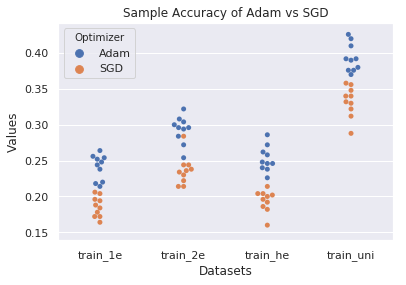
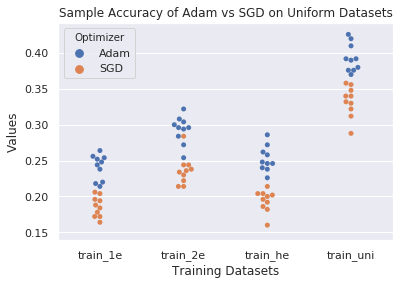
Update docs after building Travis build 128 of apra93/leabra-tf
The docs were built from the branch 'master' against the commit
c00edf69cb681d25198e80fde06bfecf8ab34e9f.

The Travis build that generated this commit is at
https://travis-ci.org/apra93/leabra-tf/jobs/538859755.

The doctr command that was run is

    /home/travis/miniconda/envs/test-environment/bin/doctr deploy . --built-docs docs/_build/html --deploy-branch-name gh-pages

Changed region(s): [[0.1478, 0.0281, 0.9754, 0.0842], [0.4138, 0.9263, 0.6798, 0.9825]]

diff --git a/notebooks/0.5.2-Adam-With-Non-Uniform-Training-Statistics.html b/notebooks/0.5.2-Adam-With-Non-Uniform-Training-Statistics.html
@@ -8,7 +8,7 @@
   
   <meta name="viewport" content="width=device-width, initial-scale=1.0">
   
-  <title>0.5.2 Adam with Non-Uniform Training Statistics &mdash; Leabra Tensorflow 0+untagged.52.g46893d3 documentation</title>
+  <title>0.5.2 Adam with Non-Uniform Training Statistics &mdash; Leabra Tensorflow 0+untagged.52.gc00edf6 documentation</title>
   
 
   
@@ -62,7 +62,7 @@
             
             
               <div class="version">
-                0+untagged.52.g46893d3
+                0+untagged.52.gc00edf6
               </div>
             
           
@@ -2255,12 +2255,13 @@ Wall time: 3h 41min 56s
 <div class="section" id="New-Plot-with-2500-Epochs-for-SGD">
 <h4>New Plot with 2500 Epochs for SGD<a class="headerlink" href="#New-Plot-with-2500-Epochs-for-SGD" title="Permalink to this headline">¶</a></h4>
 <div class="nbinput docutils container">
-<div class="prompt highlight-none notranslate"><div class="highlight"><pre><span></span>[226]:
+<div class="prompt highlight-none notranslate"><div class="highlight"><pre><span></span>[229]:
 </pre></div>
 </div>
 <div class="input_area highlight-ipython3 notranslate"><div class="highlight"><pre>
 <span></span><span class="n">sns</span><span class="o">.</span><span class="n">swarmplot</span><span class="p">(</span><span class="n">x</span><span class="o">=</span><span class="s2">&quot;Datasets&quot;</span><span class="p">,</span> <span class="n">y</span><span class="o">=</span><span class="s2">&quot;Values&quot;</span><span class="p">,</span> <span class="n">hue</span><span class="o">=</span><span class="s2">&quot;Optimizer&quot;</span><span class="p">,</span> <span class="n">data</span><span class="o">=</span><span class="n">data_df</span><span class="p">)</span>
-<span class="n">plt</span><span class="o">.</span><span class="n">title</span><span class="p">(</span><span class="s1">&#39;Sample Accuracy of Adam vs SGD&#39;</span><span class="p">)</span>
+<span class="n">plt</span><span class="o">.</span><span class="n">title</span><span class="p">(</span><span class="s1">&#39;Sample Accuracy of Adam vs SGD on Uniform Datasets&#39;</span><span class="p">)</span>
+<span class="n">plt</span><span class="o">.</span><span class="n">xlabel</span><span class="p">(</span><span class="s1">&#39;Training Datasets&#39;</span><span class="p">)</span>
 <span class="n">plt</span><span class="o">.</span><span class="n">show</span><span class="p">()</span>
 </pre></div>
 </div>

diff --git a/notebooks/0.1-Designing-the-Combigen-Task.html b/notebooks/0.1-Designing-the-Combigen-Task.html
@@ -8,7 +8,7 @@
   
   <meta name="viewport" content="width=device-width, initial-scale=1.0">
   
-  <title>0.1 Implementing the Combinatorial Generalization Task &mdash; Leabra Tensorflow 0+untagged.52.g46893d3 documentation</title>
+  <title>0.1 Implementing the Combinatorial Generalization Task &mdash; Leabra Tensorflow 0+untagged.52.gc00edf6 documentation</title>
   
 
   
@@ -62,7 +62,7 @@
             
             
               <div class="version">
-                0+untagged.52.g46893d3
+                0+untagged.52.gc00edf6
               </div>
             
           

diff --git a/notebooks/0.5-Adam-Optimizer-Learning-Rate-Tuning-and-Dropout.html b/notebooks/0.5-Adam-Optimizer-Learning-Rate-Tuning-and-Dropout.html
@@ -8,7 +8,7 @@
   
   <meta name="viewport" content="width=device-width, initial-scale=1.0">
   
-  <title>0.5 Adam Optimizer Learning Rate Tuning and Dropout &mdash; Leabra Tensorflow 0+untagged.52.g46893d3 documentation</title>
+  <title>0.5 Adam Optimizer Learning Rate Tuning and Dropout &mdash; Leabra Tensorflow 0+untagged.52.gc00edf6 documentation</title>
   
 
   
@@ -62,7 +62,7 @@
             
             
               <div class="version">
-                0+untagged.52.g46893d3
+                0+untagged.52.gc00edf6
               </div>
             
           

diff --git a/combinatorics.html b/combinatorics.html
@@ -8,7 +8,7 @@
   
   <meta name="viewport" content="width=device-width, initial-scale=1.0">
   
-  <title>Combinatorial Generalizaton and Interactivity &mdash; Leabra Tensorflow 0+untagged.52.g46893d3 documentation</title>
+  <title>Combinatorial Generalizaton and Interactivity &mdash; Leabra Tensorflow 0+untagged.52.gc00edf6 documentation</title>
   
 
   
@@ -62,7 +62,7 @@
             
             
               <div class="version">
-                0+untagged.52.g46893d3
+                0+untagged.52.gc00edf6
               </div>
             
           

diff --git a/notebooks/0.7-Replicating-Results-with-the-Updated-Task.html b/notebooks/0.7-Replicating-Results-with-the-Updated-Task.html
@@ -8,7 +8,7 @@
   
   <meta name="viewport" content="width=device-width, initial-scale=1.0">
   
-  <title>0.7 Replicating Results with the Updated Task &mdash; Leabra Tensorflow 0+untagged.52.g46893d3 documentation</title>
+  <title>0.7 Replicating Results with the Updated Task &mdash; Leabra Tensorflow 0+untagged.52.gc00edf6 documentation</title>
   
 
   
@@ -61,7 +61,7 @@
             
             
               <div class="version">
-                0+untagged.52.g46893d3
+                0+untagged.52.gc00edf6
               </div>
             
           

diff --git a/notebooks/0.5.1-Adam-With-Non-Uniform-Task-Statistics.html b/notebooks/0.5.1-Adam-With-Non-Uniform-Task-Statistics.html
@@ -8,7 +8,7 @@
   
   <meta name="viewport" content="width=device-width, initial-scale=1.0">
   
-  <title>0.5.1 Adam with Non-Uniform Task Statistics &mdash; Leabra Tensorflow 0+untagged.52.g46893d3 documentation</title>
+  <title>0.5.1 Adam with Non-Uniform Task Statistics &mdash; Leabra Tensorflow 0+untagged.52.gc00edf6 documentation</title>
   
 
   
@@ -62,7 +62,7 @@
             
             
               <div class="version">
-                0+untagged.52.g46893d3
+                0+untagged.52.gc00edf6
               </div>
             
           

diff --git a/notebooks/0.4-Exploring-Different-Learning-Rates.html b/notebooks/0.4-Exploring-Different-Learning-Rates.html
@@ -8,7 +8,7 @@
   
   <meta name="viewport" content="width=device-width, initial-scale=1.0">
   
-  <title>0.4 Exploring Different Learning Rates &mdash; Leabra Tensorflow 0+untagged.52.g46893d3 documentation</title>
+  <title>0.4 Exploring Different Learning Rates &mdash; Leabra Tensorflow 0+untagged.52.gc00edf6 documentation</title>
   
 
   
@@ -62,7 +62,7 @@
             
             
               <div class="version">
-                0+untagged.52.g46893d3
+                0+untagged.52.gc00edf6
               </div>
             
           

diff --git a/notebooks/0.2-Running-a-Basic-Model-on-Combigen.html b/notebooks/0.2-Running-a-Basic-Model-on-Combigen.html
@@ -8,7 +8,7 @@
   
   <meta name="viewport" content="width=device-width, initial-scale=1.0">
   
-  <title>0.2 Running a Basic Model on Combigen &mdash; Leabra Tensorflow 0+untagged.52.g46893d3 documentation</title>
+  <title>0.2 Running a Basic Model on Combigen &mdash; Leabra Tensorflow 0+untagged.52.gc00edf6 documentation</title>
   
 
   
@@ -62,7 +62,7 @@
             
             
               <div class="version">
-                0+untagged.52.g46893d3
+                0+untagged.52.gc00edf6
               </div>
             
           

diff --git a/notebooks/0.1.3-Specifying-the-Number-of-Lines.html b/notebooks/0.1.3-Specifying-the-Number-of-Lines.html
@@ -8,7 +8,7 @@
   
   <meta name="viewport" content="width=device-width, initial-scale=1.0">
   
-  <title>0.1.3 Specifying the Number of Lines &mdash; Leabra Tensorflow 0+untagged.52.g46893d3 documentation</title>
+  <title>0.1.3 Specifying the Number of Lines &mdash; Leabra Tensorflow 0+untagged.52.gc00edf6 documentation</title>
   
 
   
@@ -62,7 +62,7 @@
             
             
               <div class="version">
-                0+untagged.52.g46893d3
+                0+untagged.52.gc00edf6
               </div>
             
           

diff --git a/notebooks/0.2.1-Iterating-the-BP-Model-on-GPUs.html b/notebooks/0.2.1-Iterating-the-BP-Model-on-GPUs.html
@@ -8,7 +8,7 @@
   
   <meta name="viewport" content="width=device-width, initial-scale=1.0">
   
-  <title>0.2.1 Iterating the BP Model on GPUs &mdash; Leabra Tensorflow 0+untagged.52.g46893d3 documentation</title>
+  <title>0.2.1 Iterating the BP Model on GPUs &mdash; Leabra Tensorflow 0+untagged.52.gc00edf6 documentation</title>
   
 
   
@@ -62,7 +62,7 @@
             
             
               <div class="version">
-                0+untagged.52.g46893d3
+                0+untagged.52.gc00edf6
               </div>
             
           

diff --git a/notebooks/0.4.1-Exploring-Different-Optimizers.html b/notebooks/0.4.1-Exploring-Different-Optimizers.html
@@ -8,7 +8,7 @@
   
   <meta name="viewport" content="width=device-width, initial-scale=1.0">
   
-  <title>0.4.1 Exploring Different Optimizers &mdash; Leabra Tensorflow 0+untagged.52.g46893d3 documentation</title>
+  <title>0.4.1 Exploring Different Optimizers &mdash; Leabra Tensorflow 0+untagged.52.gc00edf6 documentation</title>
   
 
   
@@ -62,7 +62,7 @@
             
             
               <div class="version">
-                0+untagged.52.g46893d3
+                0+untagged.52.gc00edf6
               </div>
             
           

diff --git a/notebooks/0.1.4-Selectable-Line-Statistics.html b/notebooks/0.1.4-Selectable-Line-Statistics.html
@@ -8,7 +8,7 @@
   
   <meta name="viewport" content="width=device-width, initial-scale=1.0">
   
-  <title>0.1.4 Selectable Line Statistics &mdash; Leabra Tensorflow 0+untagged.52.g46893d3 documentation</title>
+  <title>0.1.4 Selectable Line Statistics &mdash; Leabra Tensorflow 0+untagged.52.gc00edf6 documentation</title>
   
 
   
@@ -62,7 +62,7 @@
             
             
               <div class="version">
-                0+untagged.52.g46893d3
+                0+untagged.52.gc00edf6
               </div>
             
           
